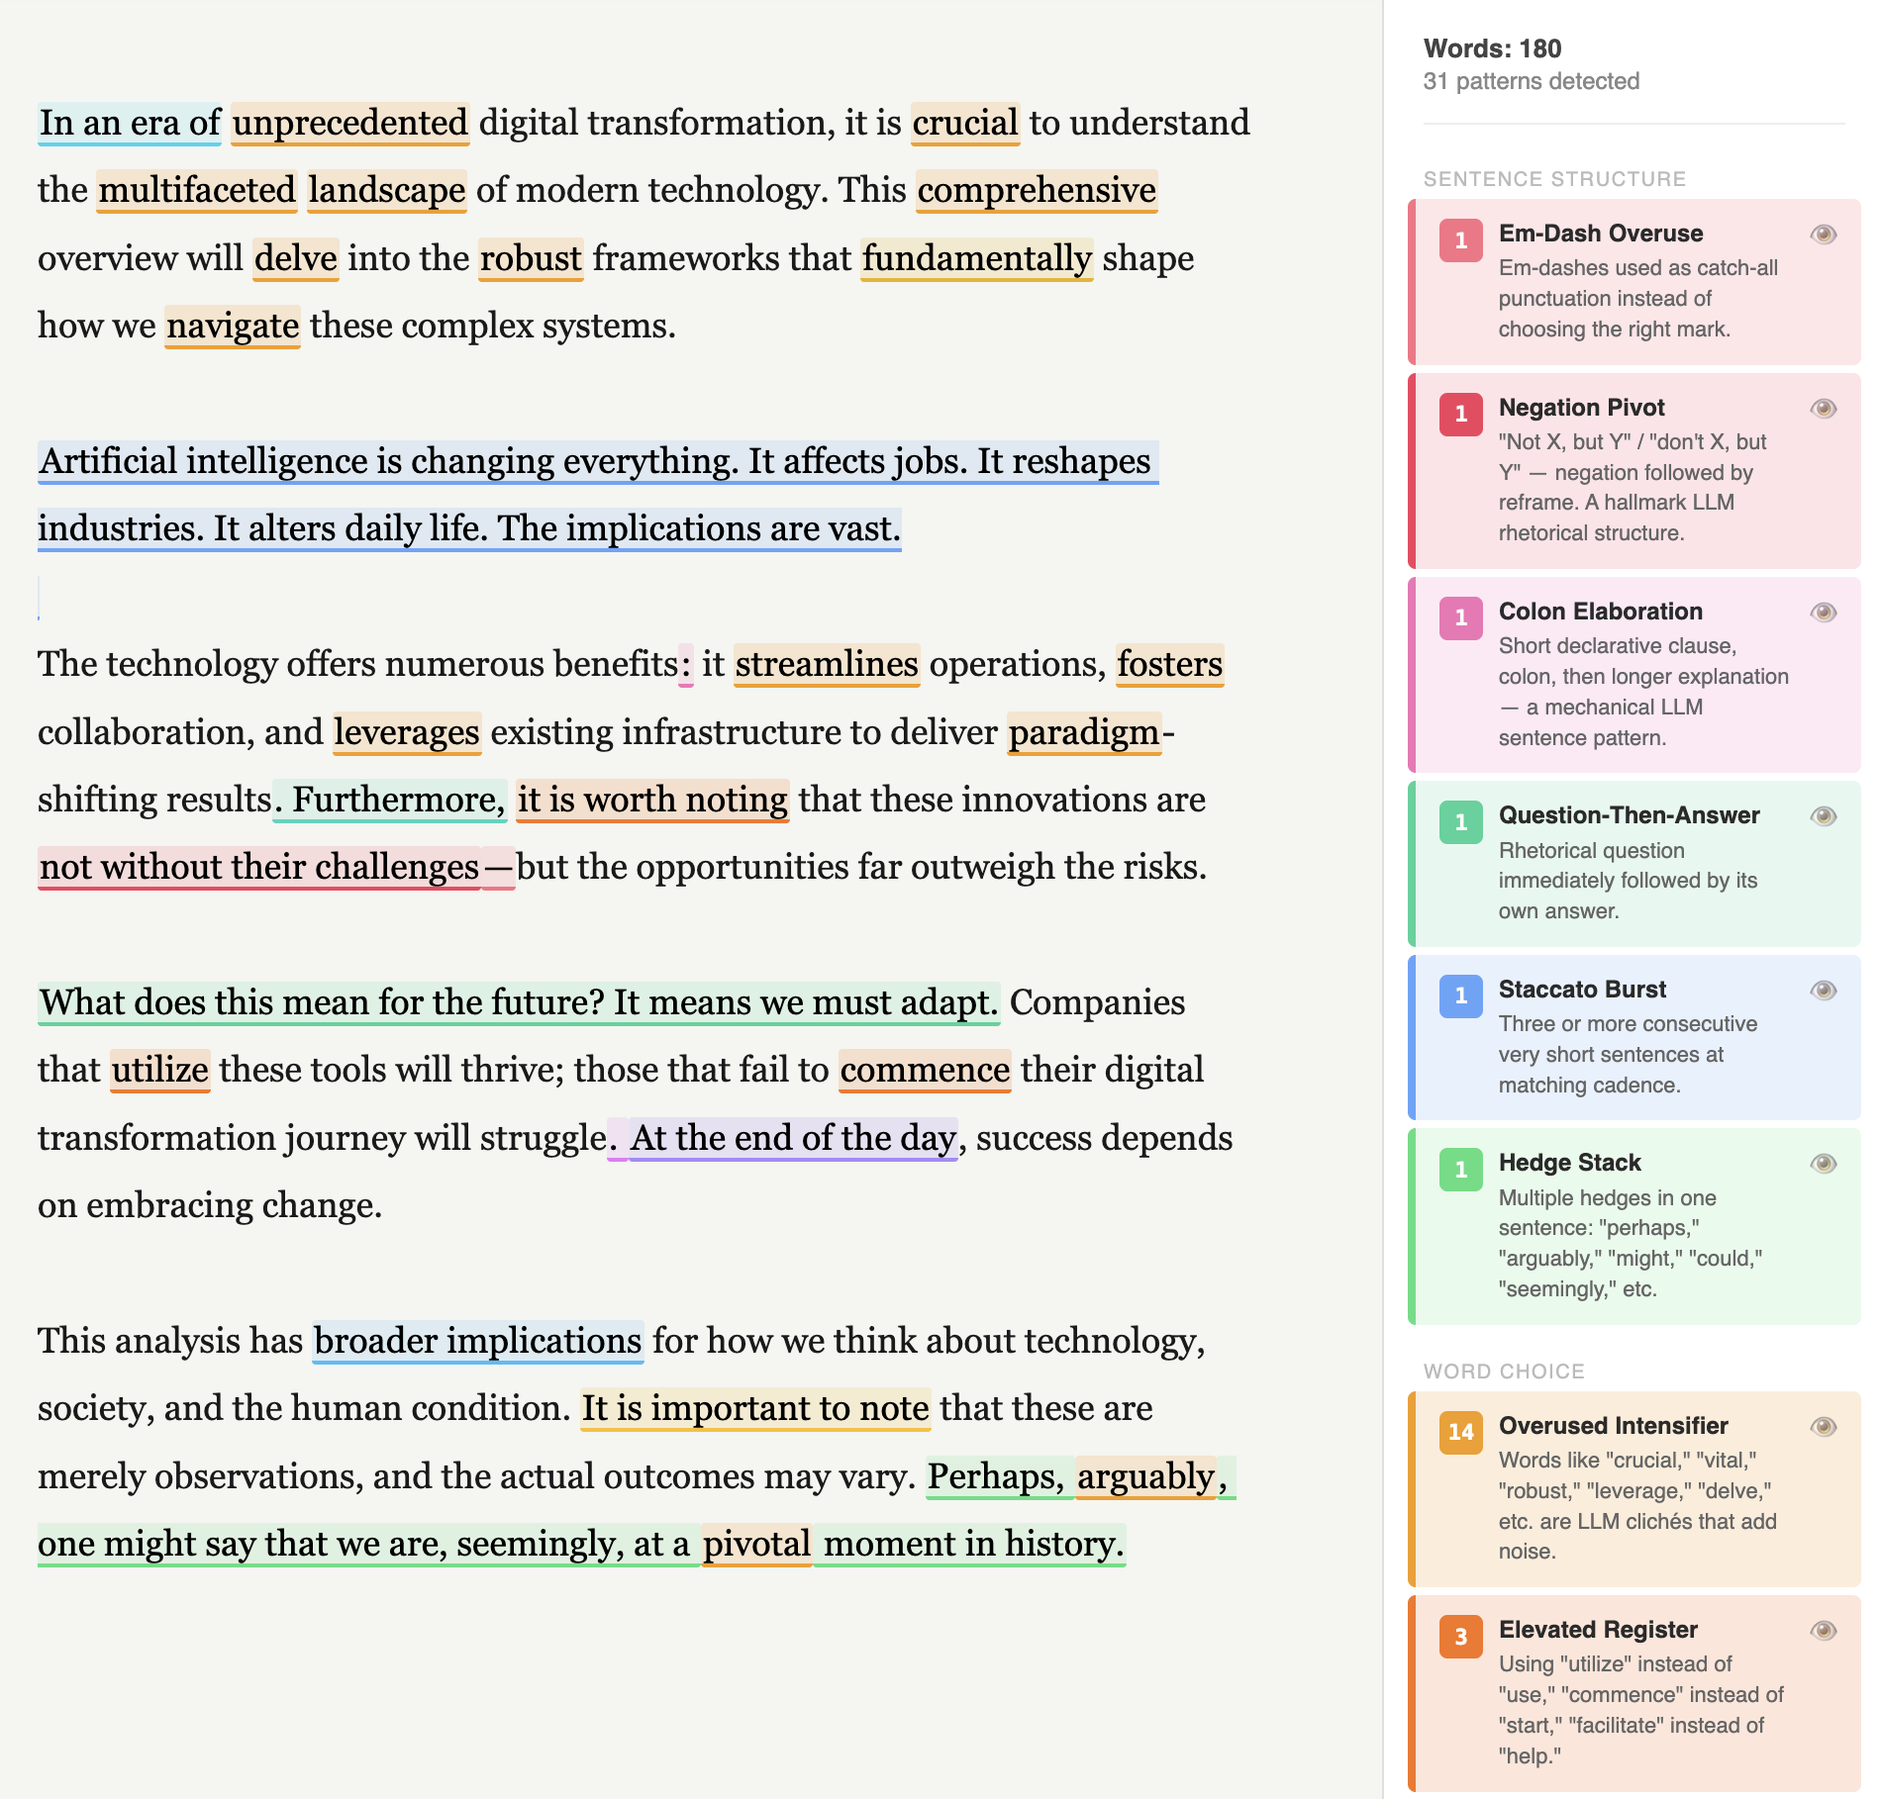
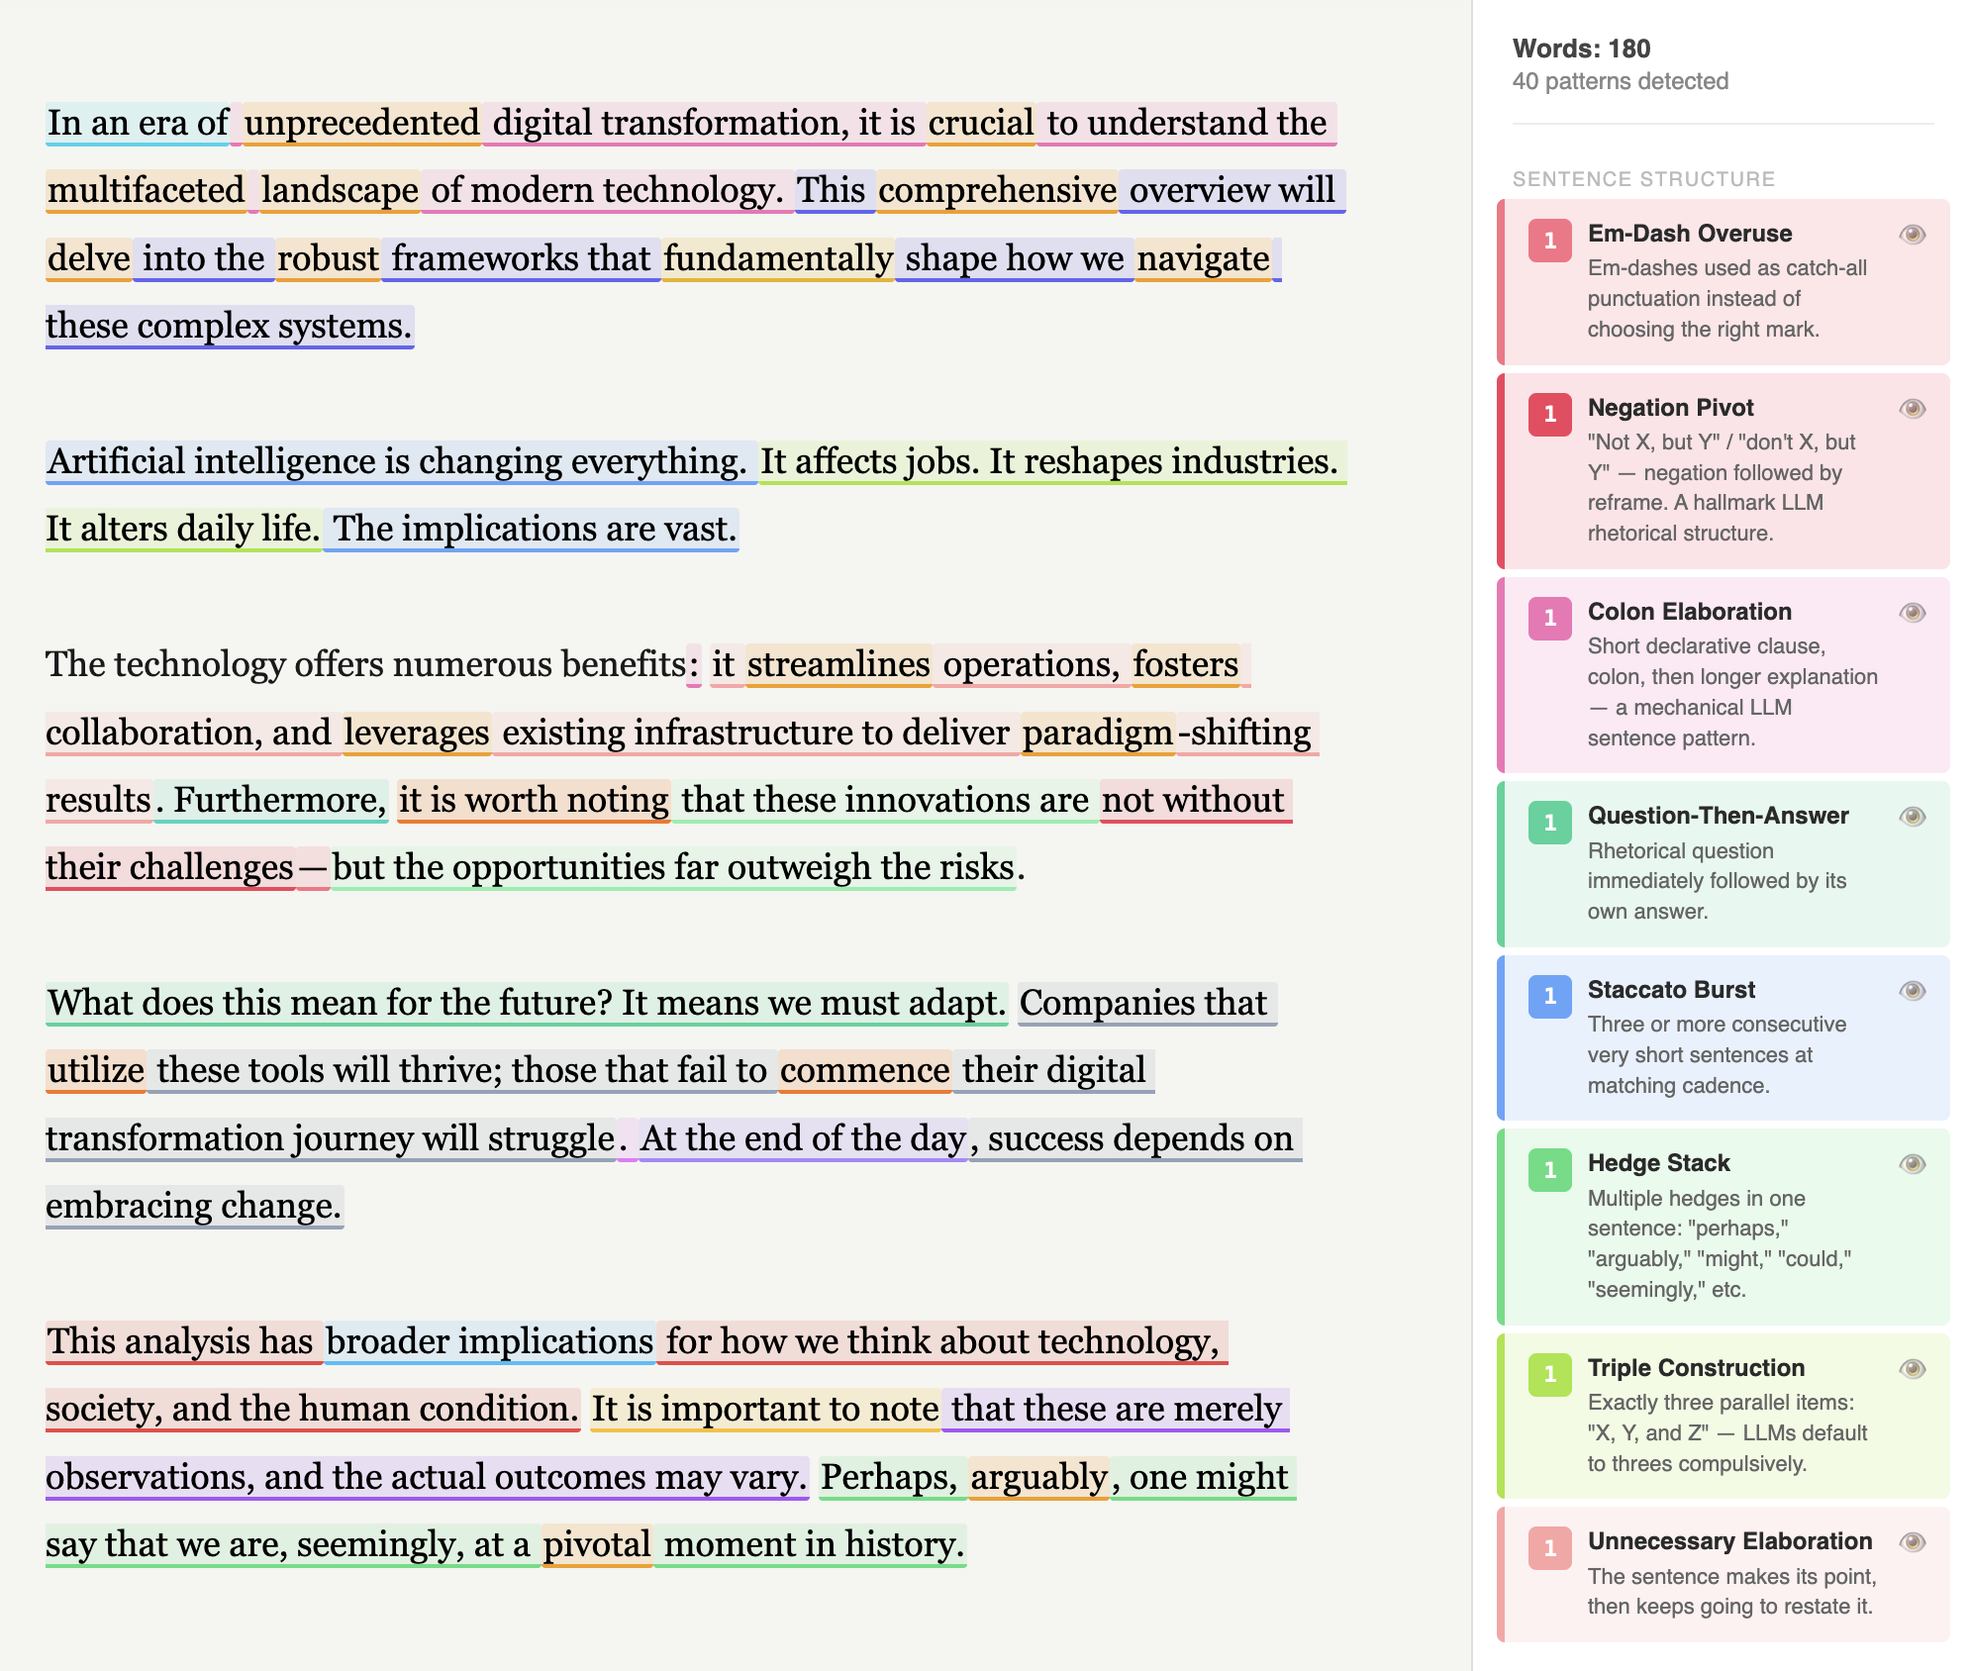
Add sidebar hover highlighting, pre-seeded LLM violations for default text, per-rule popover data, and various bug fixes

diff --git a/src/App.tsx b/src/App.tsx
@@ -8,16 +8,8 @@ import Sidebar from './components/Sidebar'
 import Toolbar from './components/Toolbar'
 import Popover, { type PopoverState } from './components/Popover'
 import { useHashText } from './hooks/useHashText'
-
-const SAMPLE_TEXT = `In an era of unprecedented digital transformation, it is crucial to understand the multifaceted landscape of modern technology. This comprehensive overview will delve into the robust frameworks that fundamentally shape how we navigate these complex systems.
-
-Artificial intelligence is changing everything. It affects jobs. It reshapes industries. It alters daily life. The implications are vast.
-
-The technology offers numerous benefits: it streamlines operations, fosters collaboration, and leverages existing infrastructure to deliver paradigm-shifting results. Furthermore, it is worth noting that these innovations are not without their challenges—but the opportunities far outweigh the risks.
-
-What does this mean for the future? It means we must adapt. Companies that utilize these tools will thrive; those that fail to commence their digital transformation journey will struggle. At the end of the day, success depends on embracing change.
-
-This analysis has broader implications for how we think about technology, society, and the human condition. It is important to note that these are merely observations, and the actual outcomes may vary. Perhaps, arguably, one might say that we are, seemingly, at a pivotal moment in history.`
+import { SAMPLE_TEXT } from './data/sampleText'
+import SAMPLE_VIOLATIONS from './data/sampleViolations.json'
 
 const DEBOUNCE_MS = 350
 
@@ -28,13 +20,19 @@ export default function App() {
     try { return decodeURIComponent(hash) } catch { return SAMPLE_TEXT }
   })
   useHashText(text)
+  const isDefaultText = !window.location.hash.slice(1)
   const [clientViolations, setClientViolations] = useState<Violation[]>([])
-  const [llmViolations, setLlmViolations] = useState<Violation[]>([])
+  const [llmViolations, setLlmViolations] = useState<Violation[]>(
+    isDefaultText ? (SAMPLE_VIOLATIONS as Violation[]) : []
+  )
   const [hiddenRules, setHiddenRules] = useState<Set<string>>(new Set())
   const [apiKey, setApiKey] = useState(() => localStorage.getItem('anthropic-api-key') ?? '')
-  const [llmStatus, setLlmStatus] = useState<'idle' | 'loading' | 'done' | 'stale' | 'error'>('idle')
+  const [llmStatus, setLlmStatus] = useState<'idle' | 'loading' | 'done' | 'stale' | 'error'>(
+    isDefaultText ? 'done' : 'idle'
+  )
   const [llmError, setLlmError] = useState('')
   const [popover, setPopover] = useState<PopoverState | null>(null)
+  const [hoveredRuleId, setHoveredRuleId] = useState<string | null>(null)
 
   const editorRef = useRef<HTMLDivElement>(null)
   const debounceRef = useRef<ReturnType<typeof setTimeout> | null>(null)
@@ -170,20 +168,28 @@ export default function App() {
 
     if (rules.length === 0) return
 
-    // Find the most specific matching violation for accurate indices
-    const v = violationsRef.current.find(
-      v2 => ruleIds.includes(v2.ruleId) && Math.abs(v2.startIndex - startIndex) < 5
-    )
+    // Find the matching violation for each rule — use containment so large spans
+    // (e.g. throat-clearing opener covering a whole paragraph) are found correctly
+    const violations = ruleIds.map(ruleId => {
+      const v = violationsRef.current.find(
+        v2 => v2.ruleId === ruleId && v2.startIndex <= startIndex && v2.endIndex >= endIndex
+      ) ?? violationsRef.current.find(
+        v2 => v2.ruleId === ruleId && Math.abs(v2.startIndex - startIndex) < 20
+      )
+      return {
+        startIndex: v?.startIndex ?? startIndex,
+        endIndex: v?.endIndex ?? endIndex,
+        matchedText: v?.matchedText ?? matchedText,
+        explanation: v?.explanation,
+        suggestedChange: v?.suggestedChange,
+      }
+    })
 
     setPopover({
       rules,
+      violations,
       anchorRect: mark.getBoundingClientRect(),
       ruleIndex: 0,
-      startIndex: v?.startIndex ?? startIndex,
-      endIndex: v?.endIndex ?? endIndex,
-      matchedText: v?.matchedText ?? matchedText,
-      explanation: v?.explanation,
-      suggestedChange: v?.suggestedChange,
     })
   }, [])
 
@@ -235,6 +241,31 @@ export default function App() {
       .catch(e => { errors.push(e instanceof Error ? e.message : String(e)) })
       .finally(oneDone)
   }, [apiKey, text])
+
+  // Dim all text and non-matching marks when hovering a sidebar rule
+  useEffect(() => {
+    const editor = editorRef.current
+    if (!editor) return
+    if (!hoveredRuleId) {
+      editor.style.color = ''
+      editor.querySelectorAll<HTMLElement>('mark').forEach(m => {
+        m.style.opacity = ''
+        m.style.color = ''
+      })
+      return
+    }
+    editor.style.color = 'rgba(26,26,26,0.15)'
+    editor.querySelectorAll<HTMLElement>('mark').forEach(m => {
+      const rules = (m.getAttribute('data-rules') ?? '').split(',')
+      if (rules.includes(hoveredRuleId)) {
+        m.style.opacity = '1'
+        m.style.color = '#1a1a1a'
+      } else {
+        m.style.opacity = '0.15'
+        m.style.color = ''
+      }
+    })
+  }, [hoveredRuleId])
 
   const toggleRule = (ruleId: string) => {
     setHiddenRules(prev => {
@@ -304,6 +335,7 @@ export default function App() {
           violations={allViolations}
           hiddenRules={hiddenRules}
           onToggleRule={toggleRule}
+          onRuleHover={setHoveredRuleId}
           wordCount={wordCount}
           hasApiKey={!!apiKey}
           llmStatus={llmStatus}

diff --git a/src/components/Sidebar.tsx b/src/components/Sidebar.tsx
@@ -5,6 +5,7 @@ interface Props {
   violations: Violation[]
   hiddenRules: Set<string>
   onToggleRule: (ruleId: string) => void
+  onRuleHover: (ruleId: string | null) => void
   wordCount: number
   hasApiKey: boolean
   llmStatus: 'idle' | 'loading' | 'done' | 'stale' | 'error'
@@ -22,7 +23,7 @@ const CATEGORY_ORDER: ViolationCategory[] = [
   'sentence-structure', 'word-choice', 'rhetorical', 'framing', 'structural',
 ]
 
-export default function Sidebar({ violations, hiddenRules, onToggleRule, wordCount, hasApiKey, llmStatus }: Props) {
+export default function Sidebar({ violations, hiddenRules, onToggleRule, onRuleHover, wordCount, hasApiKey, llmStatus }: Props) {
   const countByRule = new Map<string, number>()
   for (const v of violations) {
     countByRule.set(v.ruleId, (countByRule.get(v.ruleId) ?? 0) + 1)
@@ -33,8 +34,8 @@ export default function Sidebar({ violations, hiddenRules, onToggleRule, wordCou
   // Group rules by category, only show rules with hits (or LLM rules if unlocked)
   const byCategory = new Map<ViolationCategory, typeof RULES>()
   for (const rule of RULES) {
-    if (rule.requiresLLM && !hasApiKey) continue
     const count = countByRule.get(rule.id) ?? 0
+    if (rule.requiresLLM && !hasApiKey && count === 0) continue
     if (count === 0) continue
     if (!byCategory.has(rule.category)) byCategory.set(rule.category, [])
     byCategory.get(rule.category)!.push(rule)
@@ -90,6 +91,8 @@ export default function Sidebar({ violations, hiddenRules, onToggleRule, wordCou
                 return (
                   <div
                     key={rule.id}
+                    onMouseEnter={() => onRuleHover(rule.id)}
+                    onMouseLeave={() => onRuleHover(null)}
                     style={{
                       background: hidden ? '#f8f8f8' : rule.bgColor,
                       borderLeft: `4px solid ${hidden ? '#ddd' : rule.color}`,
@@ -101,6 +104,7 @@ export default function Sidebar({ violations, hiddenRules, onToggleRule, wordCou
                       marginBottom: '4px',
                       opacity: hidden ? 0.5 : 1,
                       transition: 'opacity 0.15s',
+                      cursor: 'default',
                     }}
                   >
                     {/* Count badge */}

diff --git a/src/components/Popover.tsx b/src/components/Popover.tsx
@@ -2,15 +2,19 @@ import { useEffect, useRef } from 'react'
 import { createPortal } from 'react-dom'
 import type { ViolationRule } from '../types'
 
-export interface PopoverState {
-  rules: ViolationRule[]
-  anchorRect: DOMRect
-  ruleIndex: number
+export interface PopoverViolationData {
   startIndex: number
   endIndex: number
   matchedText: string
   explanation?: string
   suggestedChange?: string
+}
+
+export interface PopoverState {
+  rules: ViolationRule[]
+  violations: PopoverViolationData[]
+  anchorRect: DOMRect
+  ruleIndex: number
 }
 
 interface Props {
@@ -81,8 +85,9 @@ function InlineDiff({ before, after }: { before: string; after: string }) {
 const POPOVER_WIDTH = 380
 
 export default function Popover({ state, onClose, onApply, onNextRule, onPrevRule }: Props) {
-  const { rules, anchorRect, ruleIndex, startIndex, endIndex, suggestedChange, explanation } = state
+  const { rules, violations, anchorRect, ruleIndex } = state
   const rule = rules[ruleIndex]
+  const { startIndex, endIndex, matchedText, explanation, suggestedChange } = violations[ruleIndex] ?? violations[0]
   const popoverRef = useRef<HTMLDivElement>(null)
 
   const top = anchorRect.bottom + window.scrollY + 8
@@ -168,7 +173,7 @@ export default function Popover({ state, onClose, onApply, onNextRule, onPrevRul
               <div style={{ fontSize: '10px', fontFamily: 'sans-serif', textTransform: 'uppercase', letterSpacing: '0.08em', color: '#aaa', marginBottom: '6px', fontWeight: '600' }}>
                 Suggested change
               </div>
-              <InlineDiff before={state.matchedText} after={effectiveSuggestion} />
+              <InlineDiff before={matchedText} after={effectiveSuggestion} />
             </div>
           )
         })()}

diff --git a/scripts/seed-sample-violations.ts b/scripts/seed-sample-violations.ts
@@ -1,0 +1,39 @@
+/**
+ * Runs LLM analysis on SAMPLE_TEXT and writes the results to
+ * src/data/sampleViolations.json. Re-run whenever SAMPLE_TEXT changes:
+ *
+ *   pnpm run seed
+ *
+ * Requires ANTHROPIC_API_KEY in .env
+ */
+
+import { writeFileSync } from 'fs'
+import { resolve, dirname } from 'path'
+import { fileURLToPath } from 'url'
+import { config } from 'dotenv'
+
+const __dirname = dirname(fileURLToPath(import.meta.url))
+config({ path: resolve(__dirname, '../.env') })
+
+const apiKey = process.env.ANTHROPIC_API_KEY
+if (!apiKey) {
+  console.error('ANTHROPIC_API_KEY not set in .env')
+  process.exit(1)
+}
+
+// Import shared text and detector logic
+const { SAMPLE_TEXT } = await import('../src/data/sampleText.ts')
+const { runLLMDetectors, runDocumentDetectors } = await import('../src/detectors/llmDetectors.ts')
+
+console.log('Running fast pass (Haiku)...')
+const fast = await runLLMDetectors(SAMPLE_TEXT, apiKey)
+console.log(`  ${fast.length} violations`)
+
+console.log('Running deep pass (Sonnet)...')
+const deep = await runDocumentDetectors(SAMPLE_TEXT, apiKey)
+console.log(`  ${deep.length} violations`)
+
+const all = [...fast, ...deep]
+const outPath = resolve(__dirname, '../src/data/sampleViolations.json')
+writeFileSync(outPath, JSON.stringify(all, null, 2))
+console.log(`\nWrote ${all.length} violations to src/data/sampleViolations.json`)

diff --git a/src/data/sampleText.ts b/src/data/sampleText.ts
@@ -1,0 +1,9 @@
+export const SAMPLE_TEXT = `In an era of unprecedented digital transformation, it is crucial to understand the multifaceted landscape of modern technology. This comprehensive overview will delve into the robust frameworks that fundamentally shape how we navigate these complex systems.
+
+Artificial intelligence is changing everything. It affects jobs. It reshapes industries. It alters daily life. The implications are vast.
+
+The technology offers numerous benefits: it streamlines operations, fosters collaboration, and leverages existing infrastructure to deliver paradigm-shifting results. Furthermore, it is worth noting that these innovations are not without their challenges—but the opportunities far outweigh the risks.
+
+What does this mean for the future? It means we must adapt. Companies that utilize these tools will thrive; those that fail to commence their digital transformation journey will struggle. At the end of the day, success depends on embracing change.
+
+This analysis has broader implications for how we think about technology, society, and the human condition. It is important to note that these are merely observations, and the actual outcomes may vary. Perhaps, arguably, one might say that we are, seemingly, at a pivotal moment in history.`

diff --git a/src/detectors/wordPatterns.ts b/src/detectors/wordPatterns.ts
@@ -225,8 +225,8 @@ export function detectNegationPivot(text: string): Violation[] {
   const NEGATIONS = `not|don[\u2019']?t|doesn[\u2019']?t|isn[\u2019']?t|wasn[\u2019']?t|aren[\u2019']?t|do not|does not|is not|was not|never|no longer`
   // "not X, but Y" / "not X but Y" (comma optional)
   const commaButRe = new RegExp(`\\b(${NEGATIONS})\\b[^.!?\\n]{3,80},?\\s+but\\b`, 'gi')
-  // "not X—Y" or "not X–Y" (em/en-dash pivot without "but")
-  const emDashRe = new RegExp(`\\b(${NEGATIONS})\\b[^.!?\\n\u2014\u2013]{3,60}[\u2014\u2013]`, 'gi')
+  // "not X—Y" or "not X–Y" (em/en-dash pivot without "but") — capture one word after dash for clarity
+  const emDashRe = new RegExp(`\\b(${NEGATIONS})\\b[^.!?\\n\u2014\u2013]{3,60}[\u2014\u2013]\\s*\\w+`, 'gi')
   let m: RegExpExecArray | null
   for (const re of [commaButRe, emDashRe]) {
     while ((m = re.exec(text)) !== null) {

diff --git a/src/components/Toolbar.tsx b/src/components/Toolbar.tsx
@@ -108,9 +108,9 @@ export default function Toolbar({
       flexShrink: 0,
       boxShadow: '0 1px 3px rgba(0,0,0,0.06)',
     }}>
-      <span style={{ display: 'flex', alignItems: 'center', gap: '8px', fontSize: '15px', fontWeight: '700', fontFamily: 'sans-serif', color: '#1a1a1a', marginRight: '12px' }}>
+      <span style={{ display: 'flex', alignItems: 'center', gap: '8px', fontSize: '15px', fontWeight: '700', color: '#1a1a1a', marginRight: '12px' }}>
         <img src={logoUrl} alt="" style={{ width: '28px', height: '28px' }} />
-        Slop Cop
+        <span style={{ fontFamily: 'Menlo, Consolas, Monaco, "Adwaita Mono", "Liberation Mono", "Lucida Console", monospace' }}>Slop Cop</span>
       </span>
 
       <div style={{ flex: 1 }} />
